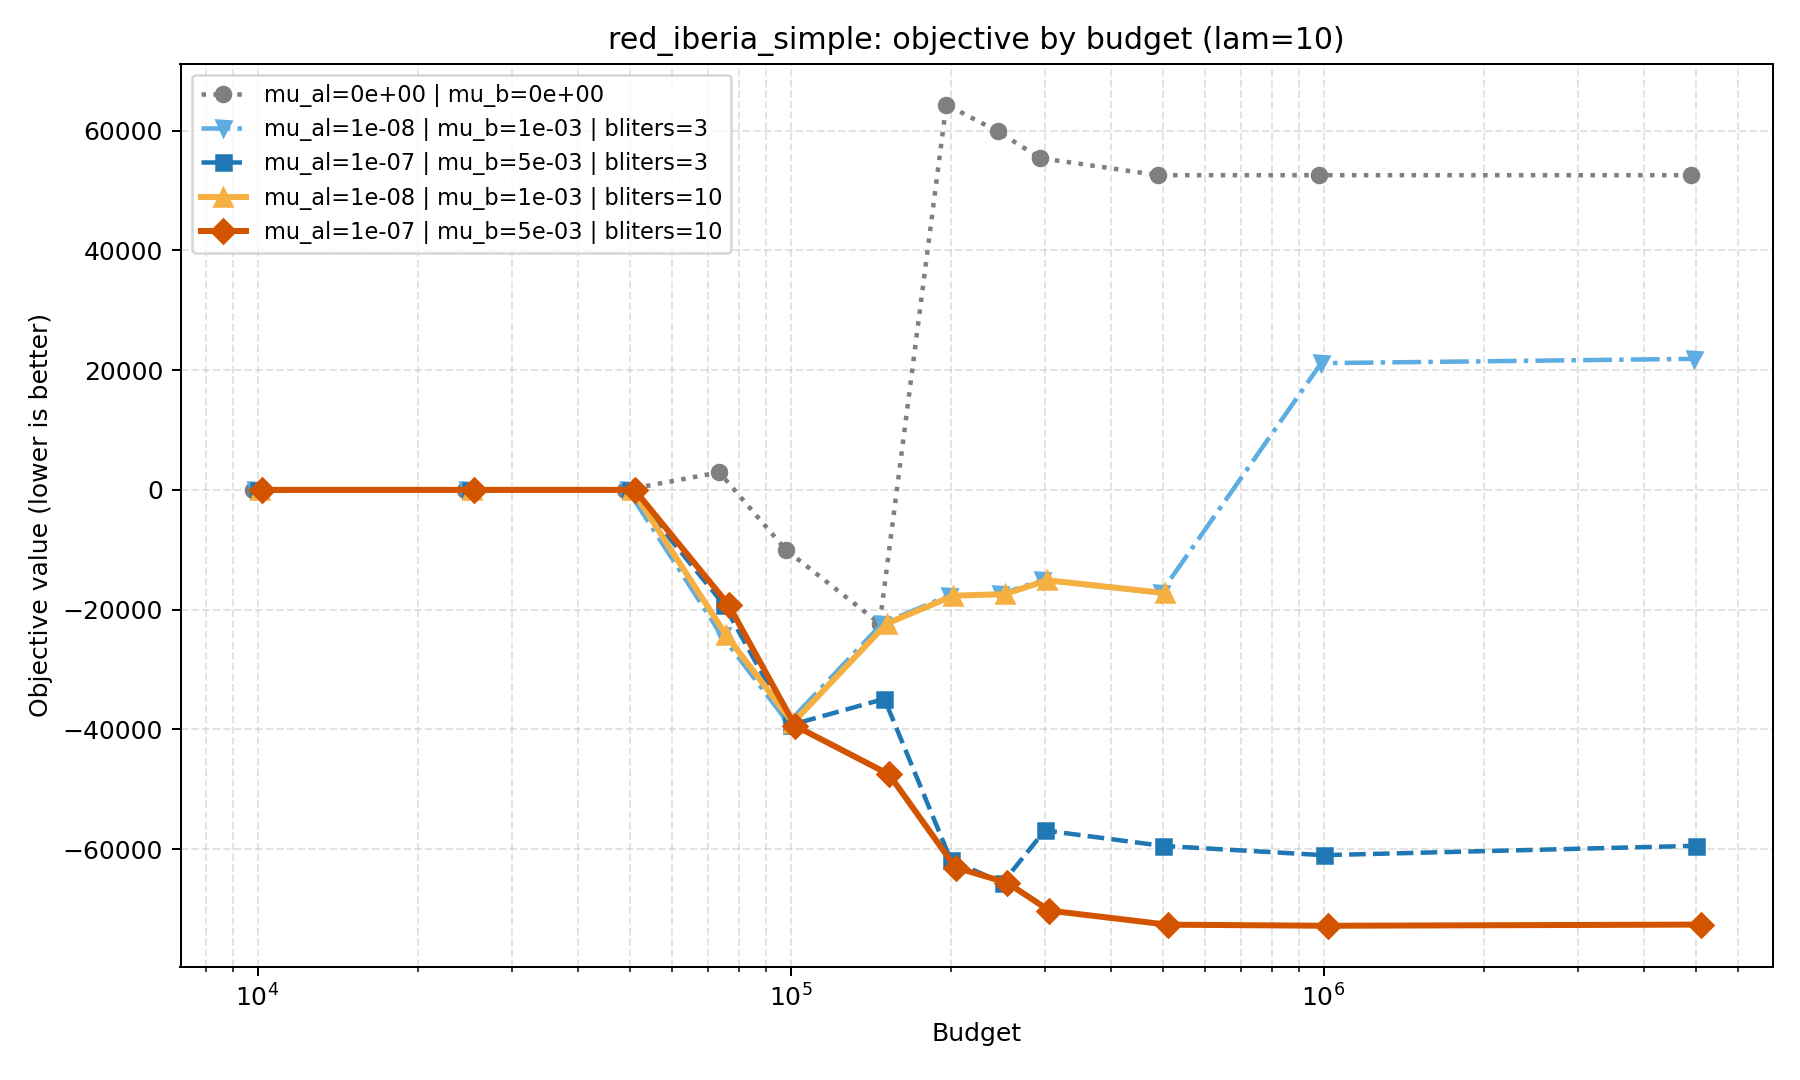
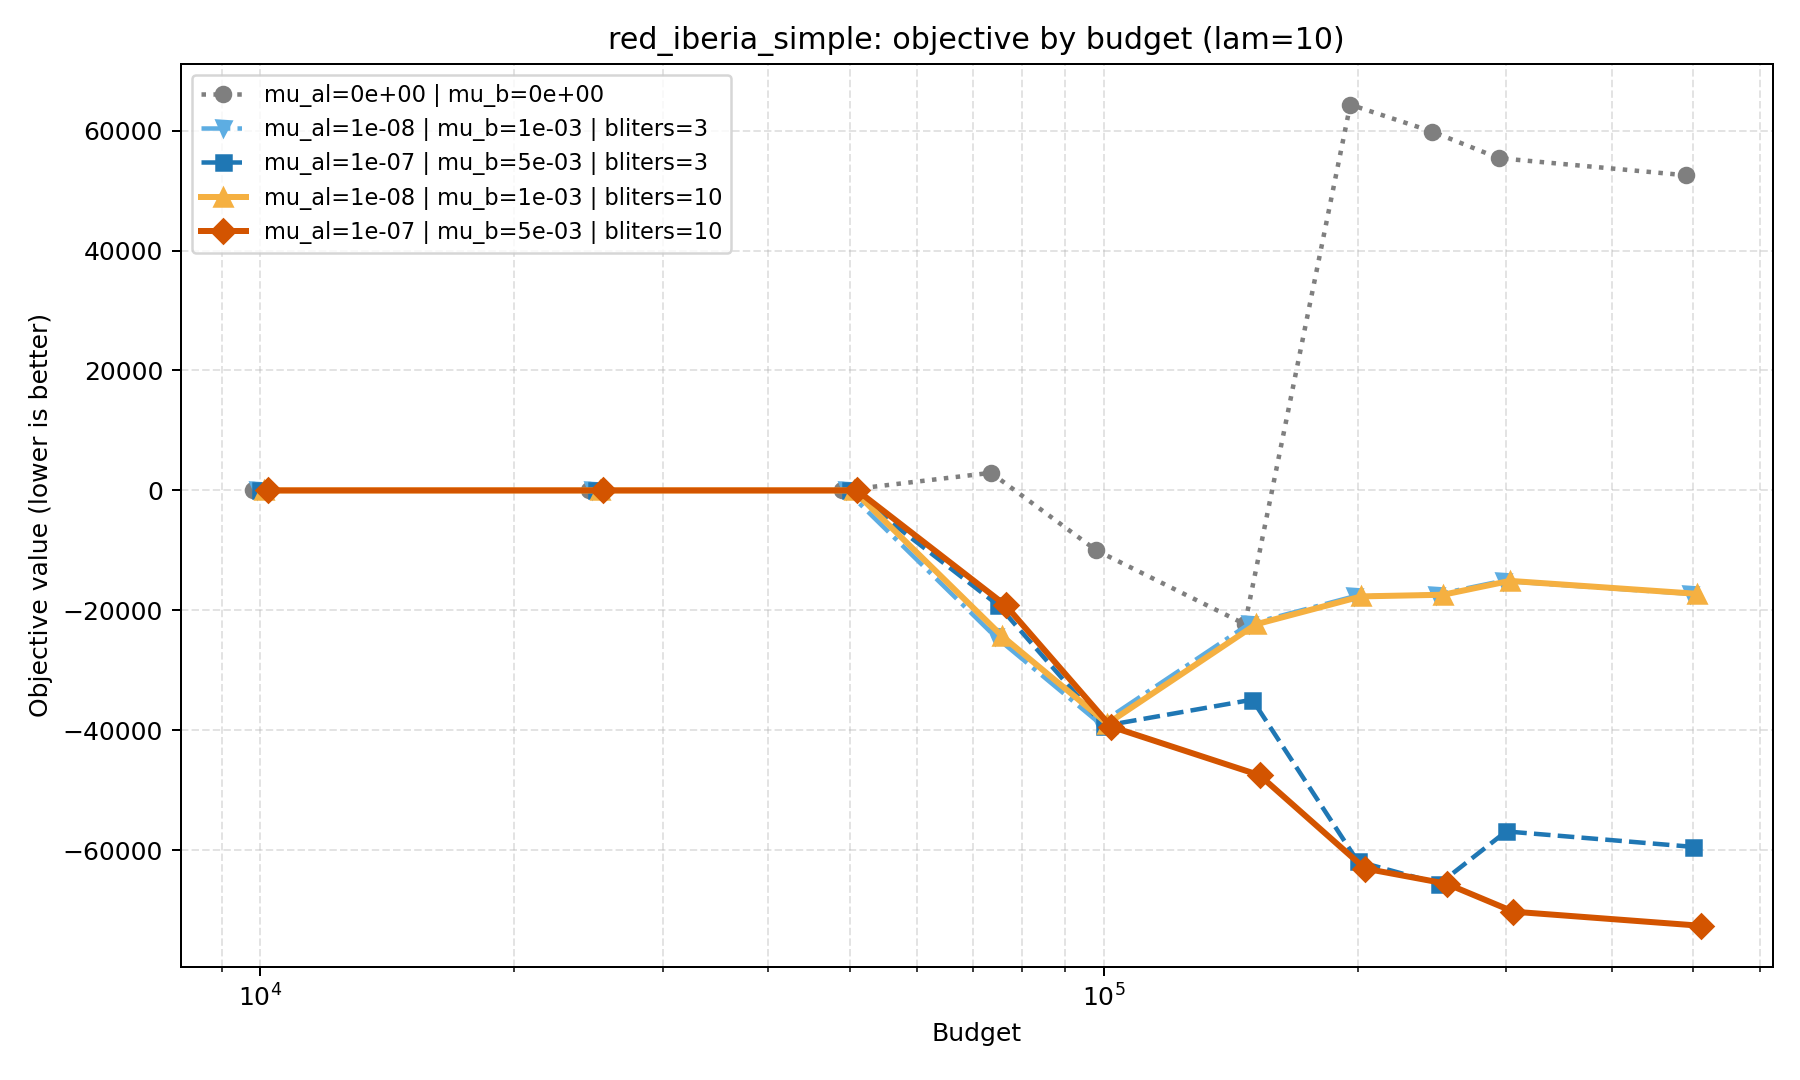
Limit objective line plots to <= 500k to maintain budget alignment consistency across all figures

diff --git a/red_iberia_simple/compare_longrun_objectives.py b/red_iberia_simple/compare_longrun_objectives.py
@@ -176,6 +176,10 @@ def save_tables(df: pd.DataFrame) -> None:
 
 def plot_objective_by_budget(df: pd.DataFrame) -> None:
     for lam, df_lam in df.groupby("lam"):
+        # Filter for budgets <= 5e5 (500k)
+        df_lam = df_lam[df_lam["budget"] <= 5e5].copy()
+        if df_lam.empty:
+            continue
         fig, ax = plt.subplots(figsize=(10, 6))
         
         # Sort groups so jittering is consistently ordered by parameters/is_longrun